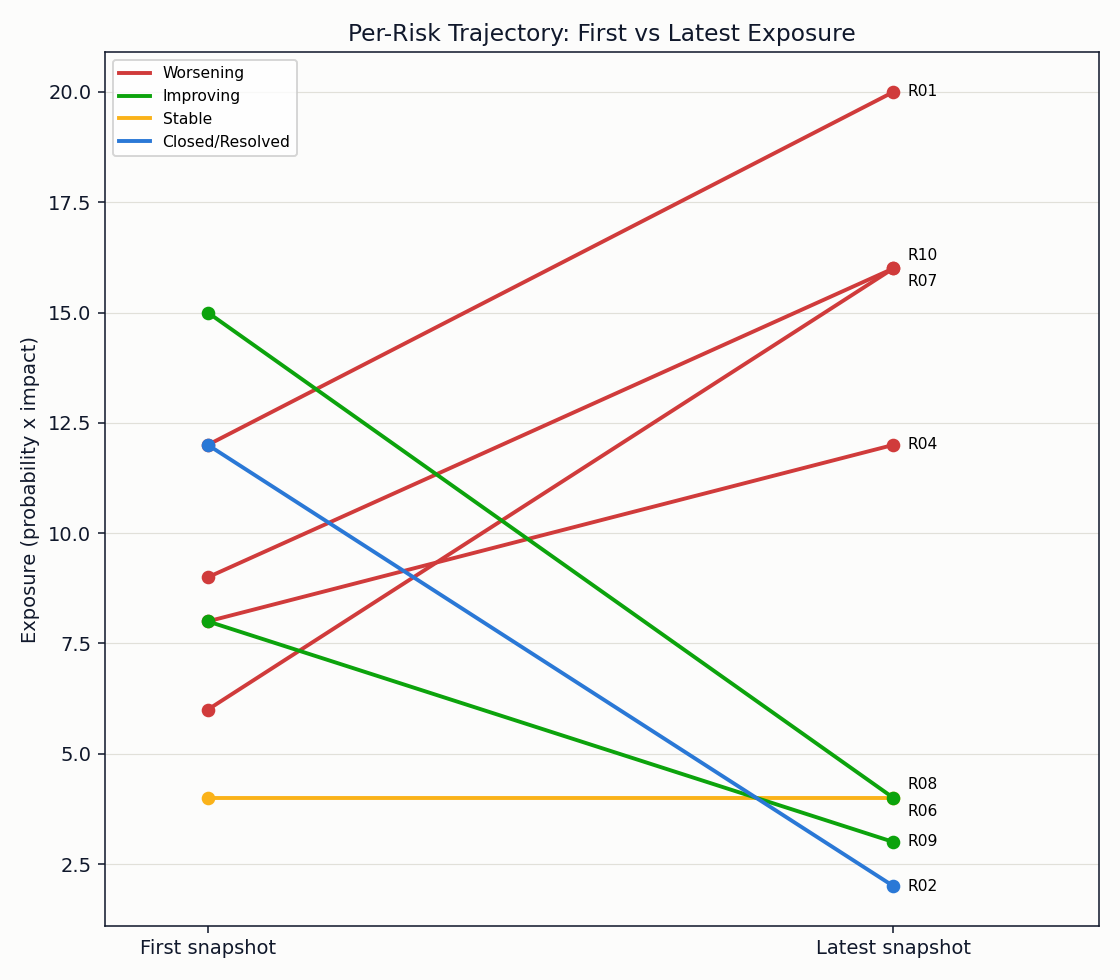
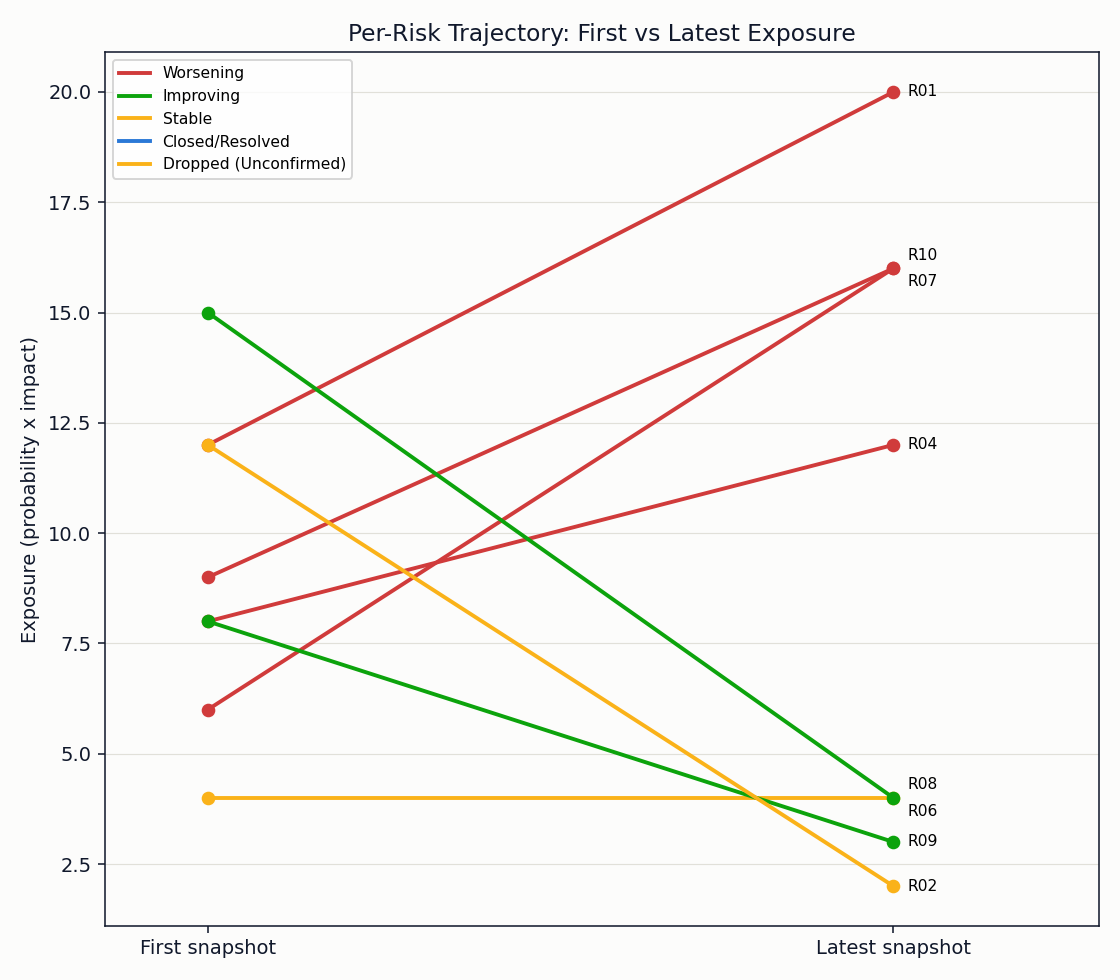
Fix churn conflation, status-blind closure inference, and date-boundary bugs in trend metrics
- risk_trajectory_score: score the exposure trend only over risks present at
  both the earliest and latest snapshot dates, so new/dropped risks (register
  churn) no longer masquerade as existing risks getting better or worse.
  Portfolio-wide totals are still reported for context, plus the new
  shared-risk figures the score is actually based on.
- per_risk_trajectory: use the CSV's own status column to detect
  Closed/Resolved, falling back to absence-based inference only when no
  status data exists. A risk that drops out of the latest snapshot without a
  Closed/Resolved status is now "Dropped (Unconfirmed)" instead of being
  mislabeled Closed.
- mitigation_effectiveness: use each risk's most recently recorded mitigation
  due date (a reschedule is no longer silently ignored via the earliest
  record), and require the snapshot date to be strictly after the due date to
  count toward the "after" average (same-day no longer yields a full verdict
  from zero elapsed observation time).
- mitigation_effectiveness: add a neutral "Held Steady" verdict for exposure
  that neither improved nor worsened, instead of forcing it into Ineffective.
- risk_tracker.py: escape `|`, backslashes, and embedded newlines in free-text
  fields (description, category) before inserting them into markdown table
  cells, and extend the trend/verdict color maps for the two new outcomes.

Regenerated assets/report.md and charts to reflect the corrected metrics.

diff --git a/src/metrics.py b/src/metrics.py
@@ -29,21 +29,42 @@ def portfolio_exposure_trend(snapshots: pd.DataFrame) -> pd.DataFrame:
     )
 
 
+CLOSED_STATUSES = {"closed", "resolved"}
+
+
+def _delta_trend(delta: float) -> str:
+    if delta >= TREND_THRESHOLD:
+        return "Worsening"
+    if delta <= -TREND_THRESHOLD:
+        return "Improving"
+    return "Stable"
+
+
 def per_risk_trajectory(snapshots: pd.DataFrame, latest_snapshot: pd.Timestamp) -> pd.DataFrame:
     """First vs. last recorded exposure per risk, classified as a trend."""
+    has_status = "status" in snapshots.columns and snapshots["status"].notna().any()
     rows = []
     for risk_id, group in snapshots.groupby("risk_id"):
         group = group.sort_values("snapshot_date")
         first, last = group.iloc[0], group.iloc[-1]
         delta = last["exposure"] - first["exposure"]
-        if last["snapshot_date"] < latest_snapshot:
+        missing_from_latest = last["snapshot_date"] < latest_snapshot
+        last_status = str(last["status"]).strip().lower() if has_status and pd.notna(last.get("status")) else ""
+
+        if last_status in CLOSED_STATUSES:
+            # The register's own status field says this risk is done -- trust it
+            # regardless of whether it's still being reported in later snapshots.
             trend = "Closed/Resolved"
-        elif delta >= TREND_THRESHOLD:
-            trend = "Worsening"
-        elif delta <= -TREND_THRESHOLD:
-            trend = "Improving"
+        elif missing_from_latest:
+            if has_status:
+                # Status data exists but never said Closed/Resolved, so a risk
+                # dropping out of the latest snapshot is unconfirmed, not closed.
+                trend = "Dropped (Unconfirmed)"
+            else:
+                # No status data at all: fall back to the old absence-based inference.
+                trend = "Closed/Resolved"
         else:
-            trend = "Stable"
+            trend = _delta_trend(delta)
         rows.append({
             "risk_id": risk_id,
             "description": last["description"],
@@ -62,18 +83,28 @@ def mitigation_effectiveness(snapshots: pd.DataFrame) -> pd.DataFrame:
     """For risks with a mitigation due date, compare avg exposure before vs after it."""
     rows = []
     for risk_id, group in snapshots.groupby("risk_id"):
-        due = group["mitigation_due_date"].iloc[0]
+        # Use the most recently recorded due date, not the earliest -- a later
+        # reschedule of the mitigation deadline should not be silently ignored.
+        due_series = group["mitigation_due_date"].dropna()
+        due = due_series.iloc[-1] if not due_series.empty else pd.NaT
         if pd.isna(due):
             continue
         before = group[group["snapshot_date"] < due]["exposure"]
-        after = group[group["snapshot_date"] >= due]["exposure"]
+        # Strictly after: a snapshot dated exactly on the due date has zero
+        # elapsed observation time and shouldn't count as post-mitigation.
+        after = group[group["snapshot_date"] > due]["exposure"]
         if before.empty or after.empty:
             verdict = "Too early to assess"
             avg_before = before.mean() if not before.empty else float("nan")
             avg_after = after.mean() if not after.empty else float("nan")
         else:
             avg_before, avg_after = before.mean(), after.mean()
-            verdict = "Effective" if avg_after < avg_before else "Ineffective"
+            if avg_after < avg_before:
+                verdict = "Effective"
+            elif avg_after > avg_before:
+                verdict = "Ineffective"
+            else:
+                verdict = "Held Steady"
         rows.append({
             "risk_id": risk_id,
             "description": group["description"].iloc[0],
@@ -85,11 +116,31 @@ def mitigation_effectiveness(snapshots: pd.DataFrame) -> pd.DataFrame:
     return pd.DataFrame(rows)
 
 
-def risk_trajectory_score(exposure_trend: pd.DataFrame, effectiveness: pd.DataFrame) -> dict:
+def risk_trajectory_score(
+    exposure_trend: pd.DataFrame, effectiveness: pd.DataFrame, snapshots: pd.DataFrame
+) -> dict:
     first_total = exposure_trend["total_exposure"].iloc[0]
     last_total = exposure_trend["total_exposure"].iloc[-1]
     pct_change = (last_total - first_total) / first_total * 100 if first_total else 0.0
-    trend_score = max(0.0, 50.0 - max(0.0, pct_change) * 1.5)
+
+    # Churn control: the raw portfolio totals above move whenever risks are
+    # added to or dropped from the register, which isn't the same thing as
+    # existing risks getting better or worse. Score the trend only over risks
+    # present at BOTH the earliest and latest snapshot dates, so register
+    # growth/shrinkage can't masquerade as a real trajectory change.
+    first_date = snapshots["snapshot_date"].min()
+    last_date = snapshots["snapshot_date"].max()
+    first_snap = snapshots[snapshots["snapshot_date"] == first_date]
+    last_snap = snapshots[snapshots["snapshot_date"] == last_date]
+    shared_ids = set(first_snap["risk_id"]) & set(last_snap["risk_id"])
+    shared_first_total = first_snap.loc[first_snap["risk_id"].isin(shared_ids), "exposure"].sum()
+    shared_last_total = last_snap.loc[last_snap["risk_id"].isin(shared_ids), "exposure"].sum()
+    shared_pct_change = (
+        (shared_last_total - shared_first_total) / shared_first_total * 100
+        if shared_first_total
+        else 0.0
+    )
+    trend_score = max(0.0, 50.0 - max(0.0, shared_pct_change) * 1.5)
 
     assessable = effectiveness[effectiveness["verdict"] != "Too early to assess"]
     effective_count = (assessable["verdict"] == "Effective").sum()
@@ -102,6 +153,10 @@ def risk_trajectory_score(exposure_trend: pd.DataFrame, effectiveness: pd.DataFr
         "first_total_exposure": first_total,
         "last_total_exposure": last_total,
         "exposure_pct_change": round(pct_change, 1),
+        "shared_risk_count": len(shared_ids),
+        "shared_first_exposure": shared_first_total,
+        "shared_last_exposure": shared_last_total,
+        "shared_exposure_pct_change": round(shared_pct_change, 1),
         "trend_score": round(trend_score, 1),
         "mitigation_score": round(mitigation_score, 1),
         "total_score": round(max(0.0, min(100.0, total)), 1),

diff --git a/risk_tracker.py b/risk_tracker.py
@@ -33,10 +33,18 @@ STATUS_CRITICAL = "#d03b3b"
 # Worsening/Stable/Improving is a severity trend, so it takes the status scale.
 # "Closed/Resolved" isn't a severity level (a resolved risk isn't "critical" or
 # "good", it's simply no longer active) so it keeps its own categorical color,
-# same role the old ad-hoc blue played here.
+# same role the old ad-hoc blue played here. "Dropped (Unconfirmed)" is a risk
+# that stopped being reported without the register's status field ever saying
+# it was closed/resolved -- neither a severity reading nor a confirmed closure,
+# so it shares the neutral/needs-attention amber used for "Stable".
 TREND_COLORS = {"Worsening": STATUS_CRITICAL, "Improving": STATUS_GOOD,
-                 "Stable": STATUS_WARNING, "Closed/Resolved": SERIES_1}
-VERDICT_COLORS = {"Effective": STATUS_GOOD, "Ineffective": STATUS_CRITICAL, "Too early to assess": STATUS_WARNING}
+                 "Stable": STATUS_WARNING, "Closed/Resolved": SERIES_1,
+                 "Dropped (Unconfirmed)": STATUS_WARNING}
+# "Held Steady" is the neutral outcome for exposure that neither improved nor
+# worsened -- it shares "Too early to assess"'s amber rather than being forced
+# into "Ineffective".
+VERDICT_COLORS = {"Effective": STATUS_GOOD, "Ineffective": STATUS_CRITICAL,
+                   "Too early to assess": STATUS_WARNING, "Held Steady": STATUS_WARNING}
 
 
 def _apply_chrome(fig, axes) -> None:
@@ -67,6 +75,9 @@ def print_report(exposure_trend, trajectory, effectiveness, score: dict) -> None
     print(f"Total exposure, first snapshot: {score['first_total_exposure']}")
     print(f"Total exposure, latest snapshot: {score['last_total_exposure']} "
           f"({score['exposure_pct_change']:+.1f}%)")
+    print(f"  of which, shared risks only (churn-controlled, {score['shared_risk_count']} risks "
+          f"tracked in both periods): {score['shared_first_exposure']} -> {score['shared_last_exposure']} "
+          f"({score['shared_exposure_pct_change']:+.1f}%) -- this is what the trend score above is based on")
     print(f"Mitigations assessable: {score['assessable_mitigations']}  "
           f"Effective: {score['effective_mitigations']}")
 
@@ -156,6 +167,19 @@ def chart_effectiveness(effectiveness) -> None:
     plt.close(fig)
 
 
+def _escape_md_cell(value) -> str:
+    """Escape/normalize a free-text value so it can't corrupt a markdown table.
+
+    A raw `|` splits into extra columns, a backslash can escape the delimiter
+    that follows it, and embedded newlines break the row onto multiple lines.
+    """
+    if value is None or value != value:  # covers None and NaN (NaN != NaN)
+        return ""
+    text = str(value)
+    text = text.replace("\\", "\\\\").replace("|", "\\|")
+    return text.replace("\r\n", " ").replace("\n", " ").replace("\r", " ")
+
+
 def write_report_markdown(exposure_trend, trajectory, effectiveness, score: dict) -> None:
     lines = [
         "# Risk Trend Report",
@@ -170,6 +194,9 @@ def write_report_markdown(exposure_trend, trajectory, effectiveness, score: dict
         f"**Total exposure, first snapshot:** {score['first_total_exposure']}  ",
         f"**Total exposure, latest snapshot:** {score['last_total_exposure']} "
         f"({score['exposure_pct_change']:+.1f}%)  ",
+        f"**Shared risks only (churn-controlled, {score['shared_risk_count']} risks tracked in both "
+        f"periods):** {score['shared_first_exposure']} -> {score['shared_last_exposure']} "
+        f"({score['shared_exposure_pct_change']:+.1f}%) -- basis for the trend score above  ",
         f"**Mitigations assessable:** {score['assessable_mitigations']}   "
         f"**Effective:** {score['effective_mitigations']}",
         "",
@@ -181,7 +208,8 @@ def write_report_markdown(exposure_trend, trajectory, effectiveness, score: dict
     for _, row in trajectory.iterrows():
         lines.append(
             f"| {row['risk_id']} | {row['trend']} | {row['first_exposure']} "
-            f"| {row['last_exposure']} | {row['category']} | {row['description']} |"
+            f"| {row['last_exposure']} | {_escape_md_cell(row['category'])} "
+            f"| {_escape_md_cell(row['description'])} |"
         )
 
     lines += ["", "## Mitigation Effectiveness", "",
@@ -191,7 +219,8 @@ def write_report_markdown(exposure_trend, trajectory, effectiveness, score: dict
         before = f"{row['avg_exposure_before']:.1f}" if row["avg_exposure_before"] == row["avg_exposure_before"] else "n/a"
         after = f"{row['avg_exposure_after']:.1f}" if row["avg_exposure_after"] == row["avg_exposure_after"] else "n/a"
         lines.append(
-            f"| {row['risk_id']} | {row['verdict']} | {before} | {after} | {row['description']} |"
+            f"| {row['risk_id']} | {row['verdict']} | {before} | {after} "
+            f"| {_escape_md_cell(row['description'])} |"
         )
     lines.append("")
 
@@ -207,7 +236,7 @@ def main() -> None:
     latest_snapshot = snapshots["snapshot_date"].max()
     trajectory = metrics.per_risk_trajectory(snapshots, latest_snapshot)
     effectiveness = metrics.mitigation_effectiveness(snapshots)
-    score = metrics.risk_trajectory_score(exposure_trend, effectiveness)
+    score = metrics.risk_trajectory_score(exposure_trend, effectiveness, snapshots)
 
     print_report(exposure_trend, trajectory, effectiveness, score)
 

diff --git a/assets/report.md b/assets/report.md
@@ -1,15 +1,16 @@
 # Risk Trend Report
 
-**Risk Trajectory Score: 20.0 / 100**
+**Risk Trajectory Score: 35.0 / 100**
 
 | Component | Score |
 |---|---|
-| Portfolio exposure trend | 0.0 / 50 |
-| Mitigation effectiveness | 20.0 / 50 |
+| Portfolio exposure trend | 35.0 / 50 |
+| Mitigation effectiveness | 0.0 / 50 |
 
 **Total exposure, first snapshot:** 52  
 **Total exposure, latest snapshot:** 75 (+44.2%)  
-**Mitigations assessable:** 5   **Effective:** 2
+**Shared risks only (churn-controlled, 4 risks tracked in both periods):** 40 -> 44 (+10.0%) -- basis for the trend score above  
+**Mitigations assessable:** 3   **Effective:** 0
 
 ## Per-Risk Trajectory
 
@@ -21,7 +22,7 @@
 | R04 | Worsening | 8 | 12 | Regulatory | Utility interconnection approval delay |
 | R06 | Stable | 4 | 4 | Commercial | Currency fluctuation on imported equipment |
 | R09 | Improving | 8 | 3 | Commissioning | Commissioning test equipment availability |
-| R02 | Closed/Resolved | 12 | 2 | Design | Site geotechnical conditions differ from survey |
+| R02 | Dropped (Unconfirmed) | 12 | 2 | Design | Site geotechnical conditions differ from survey |
 | R08 | Improving | 15 | 4 | HSE | Site safety incident risk during peak construction |
 
 ## Mitigation Effectiveness
@@ -29,7 +30,7 @@
 | Risk | Verdict | Avg Before | Avg After | Description |
 |---|---|---|---|---|
 | R01 | Ineffective | 12.0 | 20.0 | Long-lead equipment delay |
-| R02 | Effective | 12.0 | 2.0 | Site geotechnical conditions differ from survey |
+| R02 | Too early to assess | 12.0 | n/a | Site geotechnical conditions differ from survey |
 | R04 | Ineffective | 9.3 | 12.0 | Utility interconnection approval delay |
-| R09 | Effective | 8.0 | 3.0 | Commissioning test equipment availability |
+| R09 | Too early to assess | 8.0 | n/a | Commissioning test equipment availability |
 | R10 | Ineffective | 11.3 | 16.0 | Cost overrun on rework from civil delay |
